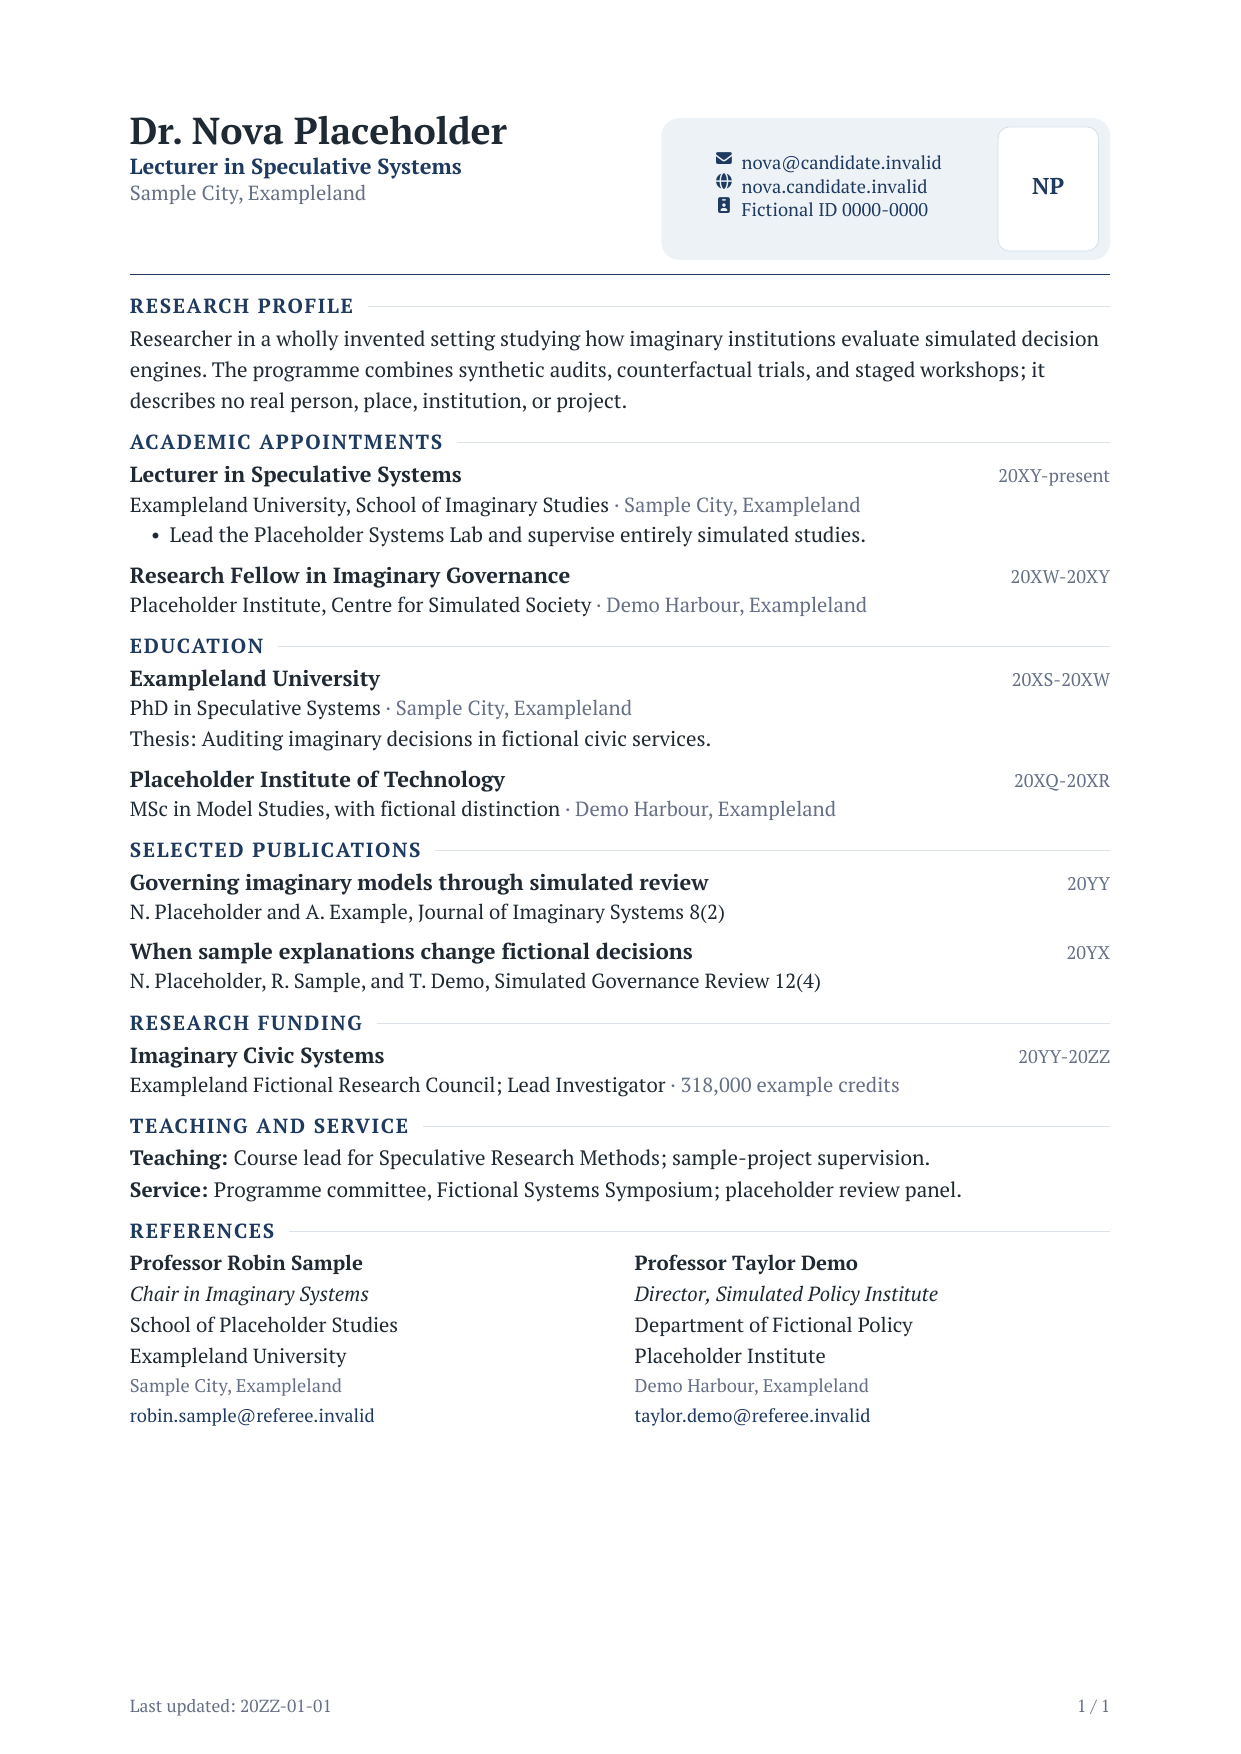
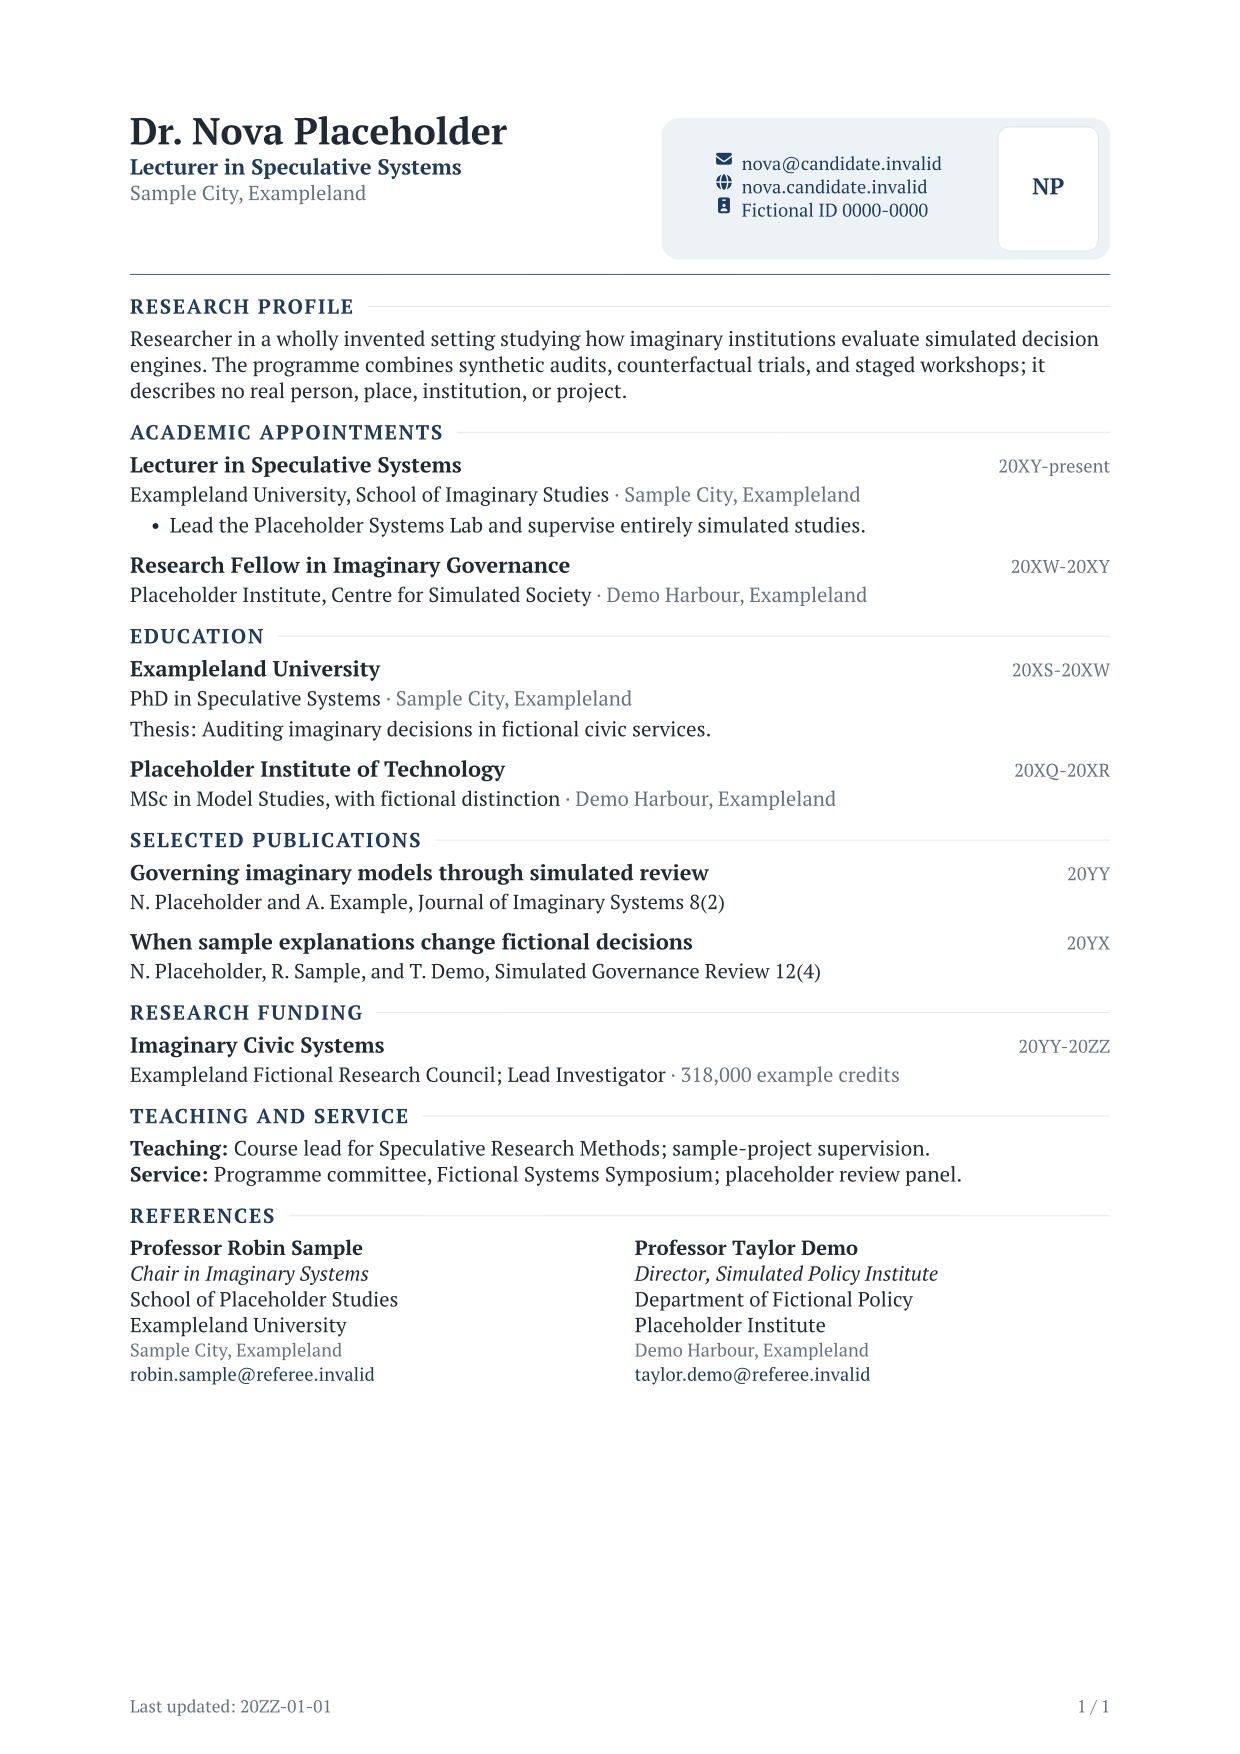
fix: correct CV line spacing

diff --git a/CHANGELOG.md b/CHANGELOG.md
@@ -1,9 +1,11 @@
 # Changelog
 
-## [2.1.1] - 2026-09-04
+## [2.1.1] - 2026-09-06
 
 ### Fixed
 
+- Corrected body leading and list spacing in every density preset so wrapped
+  lines and adjacent list items keep a consistent visual rhythm.
 - Made entry and section separators weak so their spacing collapses to one
   rhythm token, keeping every section transition consistent.
 
